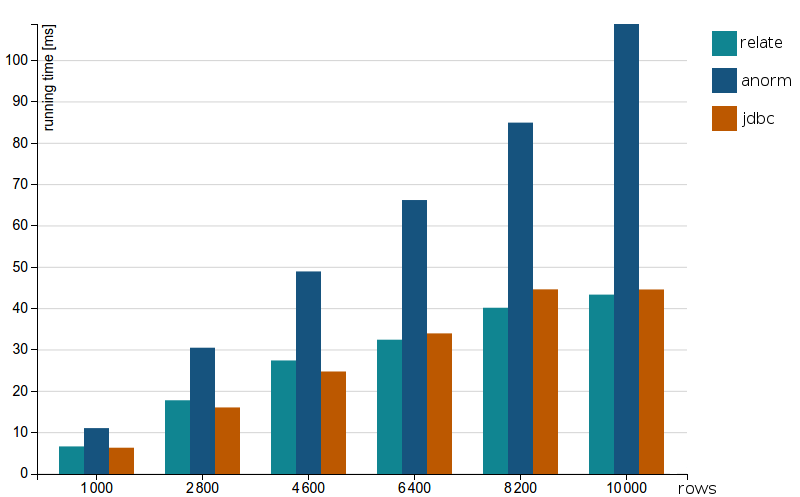
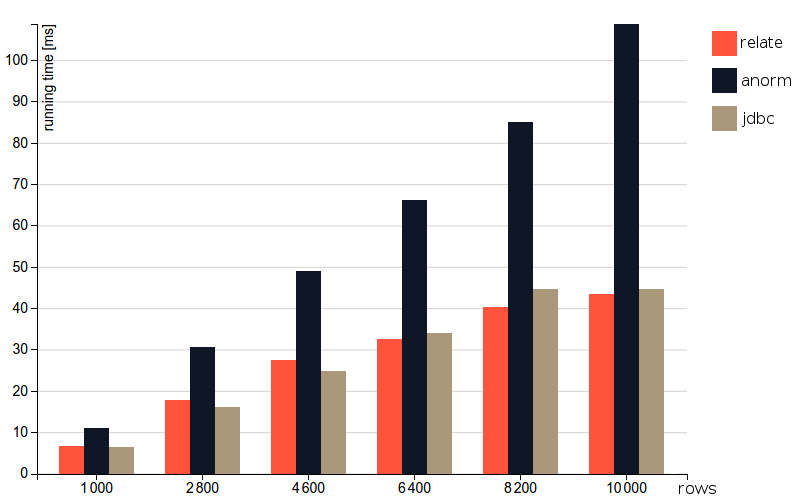
my wife suggested a far better color palette

diff --git a/_includes/navigation.html b/_includes/navigation.html
@@ -1,13 +1,10 @@
 <nav id="sliding-nav" class="sliding">
   <ul>
-    <li><a>Overview</a></li>
-    <li class="separator"></li>
-    <li><a>Getting Started</a></li>
-    <li class="separator"></li>
-    <li><a>Writing Queries</a></li>
-    <li><a>Retrieving Data</a></li>
-    <li class="separator"></li>
-    <li><a>FAQ</a></li>
-    <li><a>Browse API</a></li>
+    <li><a href="{{site.baseurl}}/docs/overview.html">Overview</a></li>
+    <li><a href="{{site.baseurl}}/docs/getting-started.html">Getting Started</a></li>
+    <li><a href="{{site.baseurl}}/docs/writing-queries.html">Writing Queries</a></li>
+    <li><a href="{{site.baseurl}}/docs/retrieving-data.html">Retrieving Data</a></li>
+    <li><a href="{{site.baseurl}}/docs/faq.html">FAQ</a></li>
+    <li><a href="{{site.baseurl}}/api/index.html">Browse API</a></li>
   </ul>
 </nav>

diff --git a/_sass/home.scss b/_sass/home.scss
@@ -3,8 +3,7 @@
     min-height: calc(98vh - #{$site-header-height});
     padding: 50px;
 
-    background-color: white;
-    color: $eggplant;
+    color: $navy-blue;
     text-align: center;
 
     .title-container {
@@ -50,8 +49,9 @@
     }
   }
 
-  section.plain-sql {
-    background-color: $clean;
+  section.plain-sql, section.sbt {
+    background-color: $coral;
+    color: $eggshell;
   }
 
   section.performance, section.sbt {
@@ -67,6 +67,8 @@
     padding: 20px;
     width: 80%;
 
+    background-color: white;
+
     img { width: 100%; }
 
     .caption {
@@ -74,14 +76,6 @@
 
       font-size: 18px;
       text-align: center;
-    }
-  }
-
-  section.sbt {
-    background-color: $butter;
-
-    .highlight {
-      background-color: lighten($clean, 18%);
     }
   }
 }

diff --git a/_layouts/doc.html b/_layouts/doc.html
@@ -1,0 +1,24 @@
+---
+layout: main
+---
+<div class="doc">
+  <div class="hero {{page.color}}">
+    <div class="container">
+      <h1 class="page-title">{{page.title}}</h1>
+      {% if page.subtitle %}<h3 class="page-subtitle">{{page.subtitle}}</h3>{% endif %}
+    </div>
+  </div>
+  <div class="doc-content container">
+  {{content}}
+  </div>
+  <div class="pagination">
+    <div class="container">
+      {% if page.previous %}
+      <a class="previous" href="{{site.baseurl}}{{page.previous.url}}">{{page.previous.name}}</a>
+      {% endif %}
+      {% if page.next %}
+      <a class="next" href="{{site.baseurl}}{{page.next.url}}">{{page.next.name}}</a>
+      {% endif %}
+    </div>
+  </div>
+</div>

diff --git a/_sass/header.scss b/_sass/header.scss
@@ -6,7 +6,7 @@ header.site-header {
   left: 0;
   right: 0;
 
-  background-color: $eggplant;
+  background-color: $navy-blue;
   color: white;
 
   @include drop-shadow-1;
@@ -27,14 +27,14 @@ header.site-header {
     margin: $hamburger-line-margin 0 0;
     width: $hamburger-toggle-width;
 
-    background: darken(white, 20%);
+    background: $eggshell;
 
     transition: background ease .5s;
   }
 
   &.active {
     .hamburger-line {
-      background: $butter;
+      background: $coral;
     }
   }
 }
@@ -81,7 +81,7 @@ header.site-header {
 
   transition: width .5s ease-in-out;
 
-  @include focus-glow($clean, .5s);
+  @include focus-glow(rgba($eggshell, .5), .5s);
 
   &:focus {
     width: 300px;

diff --git a/_sass/navigation.scss b/_sass/navigation.scss
@@ -9,8 +9,8 @@ nav.sliding {
   height: calc(100vh - #{$site-header-height});
   width: $nav-width;
 
-  background-color: lighten($clean, 20%);
-  color: $eggplant;
+  background-color: white;
+  color: $navy-blue;
   transition: left ease .5s;
 
   ul {
@@ -23,16 +23,16 @@ nav.sliding {
   li a {
     display: block;
 
-    border-bottom: 1px solid rgba($eggplant, .3);
+    border-bottom: 1px solid rgba($navy-blue, .3);
     padding: 20px;
 
-    color: $eggplant;
+    color: $navy-blue;
 
     transition: background-color ease .5s;
 
     &:hover {
-      background-color: $eggplant;
-      color: $butter;
+      background-color: $coral;
+      color: $eggshell;
     }
   }
 

diff --git a/_sass/base.scss b/_sass/base.scss
@@ -14,7 +14,8 @@ html, body {
 
   color: $font-color-dark;
   font-size: 18px;
-  font-family: 'Roboto', sans-serif;
+  font-family: 'Raleway', sans-serif;
+  background-color: $eggshell;
 }
 
 body {
@@ -22,30 +23,13 @@ body {
 }
 
 a {
-  color: $darker-clean;
+  color: $coral;
   cursor: pointer;
   text-decoration: none;
 
   transition: color ease .5s;
 
   &:hover {
-    color: $butter;
-  }
-}
-
-.btn {
-  @include drop-shadow-2;
-  padding: 14px 20px;
-
-  background-color: $clean;
-  color: $font-color-dark;
-  font-size: 24px;
-
-  transition: all ease .5s;
-
-  &:hover {
-    @include drop-shadow-3;
-
-    color: $eggplant;
+    color: $leather;
   }
 }

diff --git a/_sass/code.scss b/_sass/code.scss
@@ -1,15 +1,23 @@
 // styling for syntax highlighting
 .highlight {
-  @include drop-shadow-1;
+  @include drop-shadow-2;
   margin: 0;
   padding: 10px 30px;
 
-  background-color: lighten($butter, 15%);
+  background-color: $eggshell;
   overflow-x: auto;
 
   .language-scala {
-    .c1 { color: #999; }
-    .k, .kt { color: $salmon; font-weight: 700; }
-    .s { color: $darker-clean; }
+    color: $navy-blue;
+
+    .c1 { color: $leather; }
+    .k, .kt { color: $navy-blue; font-weight: 700; }
+    .s { color: $coral; }
   }
+}
+
+.highlighter-rouge {
+  background-color: rgba($leather, .3);
+  padding: 4px;
+  line-height: 24px;
 }

diff --git a/_sass/doc.scss b/_sass/doc.scss
@@ -1,0 +1,39 @@
+.doc {
+  .hero {
+    min-height: 300px;
+    padding: 60px 0px;
+
+    background-color: $coral;
+    color: $eggshell;
+    text-align: center;
+
+    .page-title {
+      margin: 0;
+
+      font-size: 100px;
+    }
+
+    .page-subtitle {
+      margin: 0;
+      margin-top: 20px;
+
+      font-size: 32px;
+    }
+  }
+
+  .doc-content {
+    padding: 60px 0px;
+
+    line-height: 22px;
+
+    h2 {
+      margin: 30px auto;
+
+      font-size: 32px;
+    }
+  }
+
+  .pagination {
+    text-align: center;
+  }
+}

diff --git a/_includes/head.html b/_includes/head.html
@@ -8,7 +8,7 @@
   <link rel="stylesheet" href="{{site.baseurl}}/css/main.css">
   <link rel="canonical" href="{{ page.url | replace:'index.html','' | prepend: site.baseurl | prepend: site.url }}">
 
-  <link href='https://fonts.googleapis.com/css?family=Roboto' rel='stylesheet' type='text/css'>
+  <link href='https://fonts.googleapis.com/css?family=Raleway' rel='stylesheet' type='text/css'>
 
   <!-- Chrome, Firefox OS and Opera -->
   <meta name="theme-color" content="#ffffff">

diff --git a/_sass/colors.scss b/_sass/colors.scss
@@ -1,11 +1,10 @@
 // contains the colors and color functions used throughout the site
-$eggplant: #874c62;
-$salmon: #c98474;
-$butter: #f2d388;
-$clean: #a7d2cb;
-$darker-clean: darken($clean, 30%);
+$coral: #ff533d;
+$navy-blue: #0f1626;
+$leather: #ab987a;
+$eggshell:#f5f5f5;
 
-$font-color-dark: darken($eggplant, 18%);
+$font-color-dark: $navy-blue;
 
 @mixin drop-shadow-1 {
   box-shadow: 0 1px 3px rgba(0,0,0,0.12), 0 1px 2px rgba(0,0,0,0.24);

diff --git a/index.html b/index.html
@@ -6,7 +6,7 @@ description: Blazingly fast database access layer for Scala.
 <div class="home">
   <div class="hero">
     <div class="container title-container">
-      <img class="title" src="{{site.baseurl}}/assets/img/relate-logo-eggplant.svg" />
+      <img class="title" src="{{site.baseurl}}/assets/img/relate-logo-coral.svg" />
       <h2 class="subtitle">Blazingly fast database access in Scala</h2>
     </div>
   </div>

diff --git a/_sass/footer.scss b/_sass/footer.scss
@@ -1,7 +1,7 @@
 footer.site-footer {
   height: $site-footer-height;
 
-  background-color: $eggplant;
+  background-color: $navy-blue;
   color: white;
 
   .created-by {
@@ -13,9 +13,5 @@ footer.site-footer {
     font-size: 20px;
     line-height: $site-footer-height;
     text-align: center;
-  }
-
-  a {
-    color: $clean;
   }
 }
